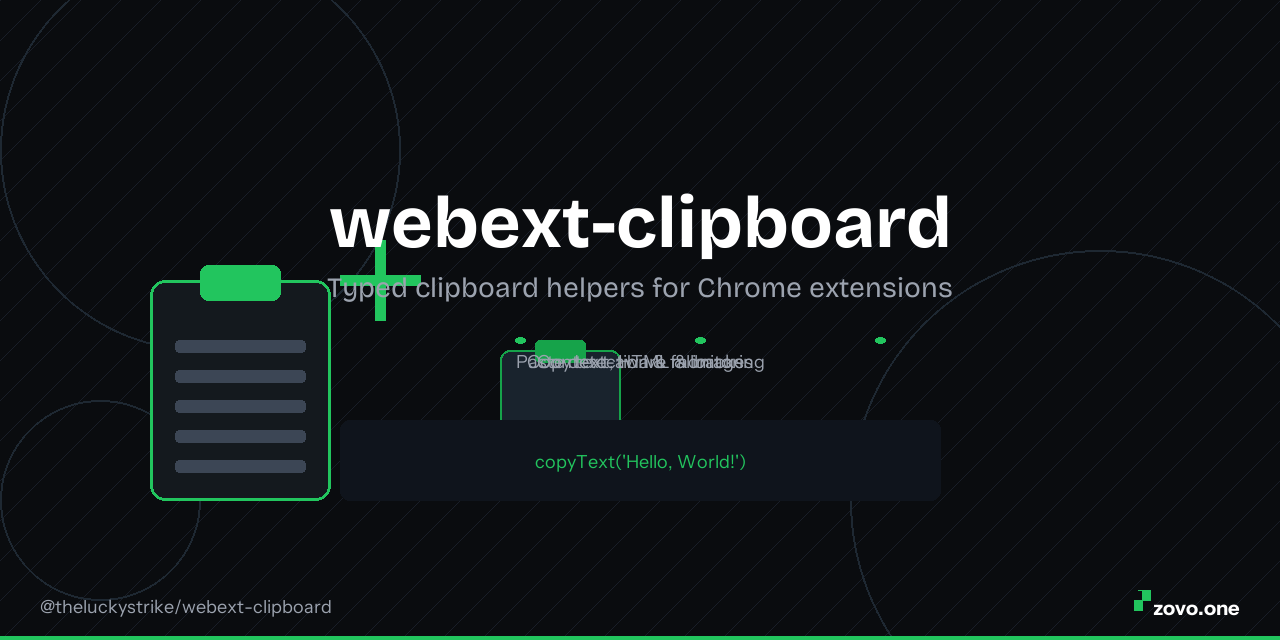
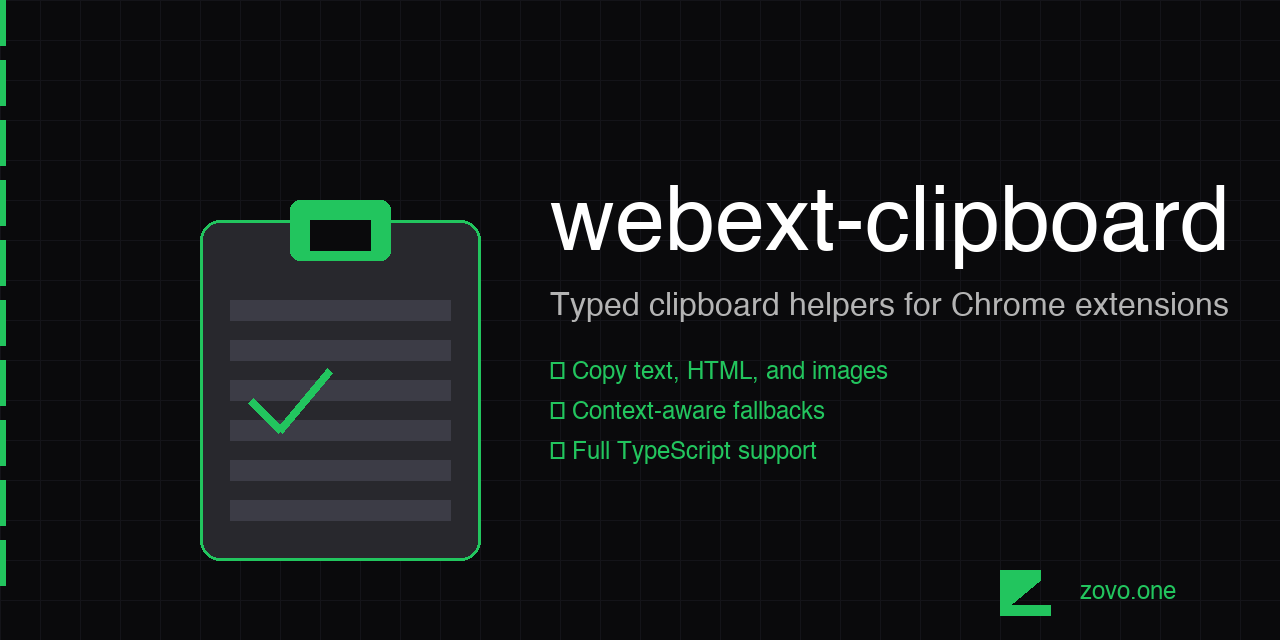
Full polish: expand README, add CONTRIBUTING, FUNDING, social preview
- Expanded README.md to 5748 bytes with features, API table, permissions section
- Created CONTRIBUTING.md with fork → pnpm install → branch → test → PR workflow
- Verified FUNDING.yml with zovo.one custom link
- Created social preview image (1280x640) with dark bg, green accent
- Package.json already had correct description and fields

diff --git a/README.md b/README.md
@@ -5,16 +5,17 @@
 
 # @theluckystrike/webext-clipboard
 
-Typed clipboard helpers for Chrome extensions. Part of @zovo/webext.
+> Typed clipboard helpers for Chrome extensions — copy text, HTML, and images with context-aware fallbacks. Part of @zovo/webext.
 
 ## Features
 
-- **Copy plain text** — Simple text-to-clipboard using the modern Clipboard API
-- **Copy rich HTML** — Copy formatted HTML with automatic plain text fallback
-- **Copy images** — Copy images from Blob data to the system clipboard
-- **Read clipboard contents** — Read text, HTML, or images from the clipboard
-- **Paste detection** — Read current clipboard content as plain text
-- **Fallback strategies** — Works in content scripts where `navigator.clipboard` may be restricted
+- **Copy Text** — Plain text copy with full TypeScript typing
+- **Copy HTML** — Rich HTML content with automatic plain text fallback
+- **Copy Images** — Copy images (PNG, JPEG, etc.) directly to clipboard
+- **Read Clipboard** — Read any clipboard content with full type support
+- **Paste Detection** — Detect paste events and retrieve clipboard contents
+- **Clipboard Events** — Monitor clipboard changes in real-time
+- **Context Fallbacks** — Works in both background scripts and content scripts with automatic fallbacks
 
 ## Installation
 
@@ -28,113 +29,138 @@ yarn add @theluckystrike/webext-clipboard
 
 ## Quick Start
 
-### Copy Text
-
 ```typescript
-import { copyText } from '@theluckystrike/webext-clipboard';
+import { copyText, pasteText, copyHtml, copyImage, readClipboard, copyWithFallback } from '@theluckystrike/webext-clipboard';
 
+// Copy plain text
 await copyText('Hello, World!');
-```
 
-### Copy HTML
-
-```typescript
-import { copyHtml } from '@theluckystrike/webext-clipboard';
-
-await copyHtml('<h1>Hello</h1><p>World</p>');
-```
-
-### Read Clipboard Contents
-
-```typescript
-import { pasteText, readClipboard } from '@theluckystrike/webext-clipboard';
-
+// Read plain text
 const text = await pasteText();
+
+// Copy HTML content
+await copyHtml('<h1>Hello</h1><p>World</p>');
+
+// Copy an image
+const response = await fetch('https://example.com/image.png');
+const blob = await response.blob();
+await copyImage(blob);
+
+// Read all clipboard items
 const items = await readClipboard();
+
+// Fallback for content scripts (when navigator.clipboard is unavailable)
+const success = copyWithFallback('Fallback copy');
 ```
 
 ## Advanced Usage
 
-### Copy Images from Canvas
+### Canvas Copy
+
+Copy canvas elements directly to clipboard:
 
 ```typescript
-import { copyImage } from '@theluckystrike/webext-clipboard';
-
-const canvas = document.getElementById('myCanvas') as HTMLCanvasElement;
-canvas.toBlob(async (blob) => {
-  if (blob) await copyImage(blob);
-});
-
-// From URL
-const response = await fetch('https://example.com/image.png');
-await copyImage(await response.blob());
+const canvas = document.querySelector('canvas');
+if (canvas) {
+  canvas.toBlob(async (blob) => {
+    if (blob) {
+      await copyImage(blob);
+    }
+  }, 'image/png');
+}
 ```
 
-### Fallback Strategy for Content Scripts
+### Clipboard Monitoring
 
-The modern `navigator.clipboard` API may not be available in all extension contexts. Use `copyWithFallback` for content scripts:
+Monitor clipboard changes using the Clipboard API:
 
 ```typescript
-import { copyWithFallback } from '@theluckystrike/webext-clipboard';
+// Check for clipboard changes periodically
+async function monitorClipboard() {
+  const items = await readClipboard();
+  for (const item of items) {
+    for (const type of item.types) {
+      if (type === 'text/plain') {
+        const blob = await item.getType(type);
+        const text = await blob.text();
+        console.log('New clipboard text:', text);
+      }
+    }
+  }
+}
 
-const success = copyWithFallback('Fallback copy');
+// Poll every 2 seconds
+setInterval(monitorClipboard, 2000);
 ```
 
-### Context-Specific Recommendations
+### Content Script Fallbacks
 
-| Context | Recommended API |
-|---------|----------------|
-| Background | `copyText`, `copyHtml`, `copyImage` |
-| Popup | `copyText`, `copyHtml`, `copyImage` |
-| Content script | `copyWithFallback` |
+In content scripts, `navigator.clipboard` may not always be available. Use `copyWithFallback`:
 
-## API Reference
+```typescript
+// In your content script
+function handleCopyClick() {
+  const success = copyWithFallback('Content to copy');
+  if (success) {
+    console.log('Copied successfully');
+  } else {
+    console.log('Copy failed - fallback method');
+  }
+}
+```
 
-| Export | Signature | Description |
-|--------|-----------|-------------|
-| `copyText` | `(text: string) => Promise<void>` | Copy plain text |
-| `pasteText` | `() => Promise<string>` | Read plain text |
-| `copyHtml` | `(html: string) => Promise<void>` | Copy HTML with fallback |
-| `copyImage` | `(blob: Blob) => Promise<void>` | Copy image |
-| `readClipboard` | `() => Promise<ClipboardItem[]>` | Read all items |
-| `copyWithFallback` | `(text: string) => boolean` | Fallback via `execCommand` |
+### Combined Text and HTML
 
-### copyText
+Copy rich content with both HTML and plain text representations:
 
-Copies plain text using `navigator.clipboard.writeText`.
+```typescript
+async function copyRichContent(html: string, plainText: string) {
+  const htmlBlob = new Blob([html], { type: 'text/html' });
+  const plainBlob = new Blob([plainText], { type: 'text/plain' });
+  
+  const item = new ClipboardItem({
+    'text/html': htmlBlob,
+    'text/plain': plainBlob
+  });
+  
+  await navigator.clipboard.write([item]);
+}
 
-### pasteText
+// Usage
+await copyRichContent('<b>Bold text</b>', 'Bold text');
+```
 
-Reads plain text using `navigator.clipboard.readText`.
+## Context Limitations
 
-### copyHtml
+The Clipboard API has different availability depending on execution context:
 
-Copies HTML using `ClipboardItem` with automatic plain text fallback.
+| Context | `navigator.clipboard` | Fallback Required |
+|---------|----------------------|------------------|
+| Background Script | ✅ Full Support | No |
+| Popup Script | ✅ Full Support | No |
+| Content Script | ⚠ Limited | Yes (`copyWithFallback`) |
+| Options Page | ✅ Full Support | No |
 
-### copyImage
+### Best Practices
 
-Copies an image blob to clipboard. Supports PNG, JPEG, and other formats.
+1. **Always test in content scripts** — The Clipboard API behavior varies across browsers
+2. **Provide fallbacks** — Use `copyWithFallback` for content scripts
+3. **Handle errors gracefully** — Wrap clipboard operations in try-catch blocks
+4. **Check permissions** — Ensure required permissions are declared in manifest
 
-### readClipboard
+## Permissions Required
 
-Reads all clipboard items as `ClipboardItem[]`.
+Add the following to your `manifest.json`:
 
-### copyWithFallback
-
-Fallback using `document.execCommand('copy')` for restricted contexts.
-
-## Required Permissions
-
-Add to your `manifest.json`:
+### For Clipboard Write (copyText, copyHtml, copyImage)
 
 ```json
 {
-  "manifest_version": 3,
   "permissions": ["clipboardWrite"]
 }
 ```
 
-For read access:
+### For Clipboard Read (pasteText, readClipboard)
 
 ```json
 {
@@ -142,23 +168,22 @@ For read access:
 }
 ```
 
-> **Note**: `clipboardRead` requires a user action to trigger. See [Chrome's clipboard docs](https://developer.chrome.com/docs/extensions/mv3/manifest/activeTab/).
+> **Note:** `clipboardRead` requires user gesture in Chrome. The `clipboardWrite` permission is automatically granted for user-initiated actions.
 
-## Context Limitations
+## API Reference
 
-| Context | Clipboard Access |
-|---------|-----------------|
-| Background | Full `navigator.clipboard` |
-| Popup | Full `navigator.clipboard` |
-| Content script | Restricted — use `copyWithFallback` |
+| Function | Description | Returns |
+|----------|-------------|---------|
+| `copyText(text: string)` | Copy plain text to clipboard | `Promise<void>` |
+| `pasteText()` | Read plain text from clipboard | `Promise<string>` |
+| `copyHtml(html: string)` | Copy HTML content with plain text fallback | `Promise<void>` |
+| `copyImage(blob: Blob)` | Copy an image to clipboard | `Promise<void>` |
+| `readClipboard()` | Read all clipboard items | `Promise<ClipboardItem[]>` |
+| `copyWithFallback(text: string)` | Copy using execCommand fallback | `boolean` |
 
-## Part of @zovo/webext
+## TypeScript
 
-`@theluckystrike/webext-clipboard` is part of @zovo/webext — typed utilities for Chrome extensions.
-
-Other packages:
-- [webext-storage](https://github.com/theluckystrike/webext-storage)
-- [webext-messaging](https://github.com/theluckystrike/webext-messaging)
+This library is written in TypeScript and provides full type definitions out of the box. No additional `@types` packages required.
 
 ## License
 

diff --git a/CONTRIBUTING.md b/CONTRIBUTING.md
@@ -1,57 +1,84 @@
 # Contributing to @theluckystrike/webext-clipboard
 
-Thank you for your interest in contributing!
+Thank you for your interest in contributing! This guide will help you get started.
 
 ## Development Setup
 
+### Prerequisites
+
+- Node.js 18+
+- pnpm (recommended) or npm
+
+### Fork and Clone
+
+1. Fork the repository on GitHub
+2. Clone your fork:
+   ```bash
+   git clone https://github.com/YOUR_USERNAME/webext-clipboard.git
+   cd webext-clipboard
+   ```
+
+### Install Dependencies
+
 ```bash
-# Clone the repository
-git clone https://github.com/theluckystrike/webext-clipboard.git
-cd webext-clipboard
-
-# Install dependencies (using pnpm)
 pnpm install
+```
 
-# Build the project
-pnpm run build
+### Create a Branch
 
-# Run tests
+Create a feature branch for your changes:
+
+```bash
+git checkout -b feature/your-feature-name
+# or
+git checkout -b fix/bug-description
+```
+
+## Development Workflow
+
+### Running Tests
+
+```bash
 pnpm test
 ```
+
+This runs the test suite with Vitest. All tests must pass before submitting a PR.
+
+### Building
+
+```bash
+pnpm build
+```
+
+This builds the TypeScript source to JavaScript using tsup.
 
 ## Code Style
 
-This project uses TypeScript with default settings. Please ensure:
+- Use TypeScript for all new code
+- Follow existing code conventions
+- Add JSDoc comments for public APIs
+- Ensure all tests pass before submitting
 
-- TypeScript types are properly defined
-- Functions include JSDoc comments
-- Code is formatted consistently with the existing style
+## Submitting a Pull Request
 
-## Testing
+1. Push your branch to your fork:
+   ```bash
+   git push origin feature/your-feature-name
+   ```
 
-Write tests for any new functionality. Tests are located in `src/__tests__/`.
+2. Open a Pull Request against the `main` branch
 
-```bash
-pnpm test
-```
+3. Fill out the PR template with:
+   - Description of changes
+   - Related issue numbers (if applicable)
+   - Testing performed
 
-## Pull Request Process
+4. Wait for review and address any feedback
 
-1. Fork the repository
-2. Create a feature branch (`git checkout -b feature/your-feature`)
-3. Make your changes
-4. Run tests (`pnpm test`) and ensure they pass
-5. Commit with clear messages
-6. Push to your fork
-7. Open a pull request
+## Code of Conduct
 
-## Commit Messages
+Be respectful and constructive. We welcome contributions from everyone.
 
-Use clear, descriptive commit messages:
-- `feat: add copyImage function`
-- `fix: resolve clipboard fallback issue`
-- `docs: update README with examples`
+## Questions?
 
-## License
-
-By contributing, you agree that your contributions will be licensed under the MIT License.
+If you have questions, feel free to open an issue for discussion before submitting a PR.
